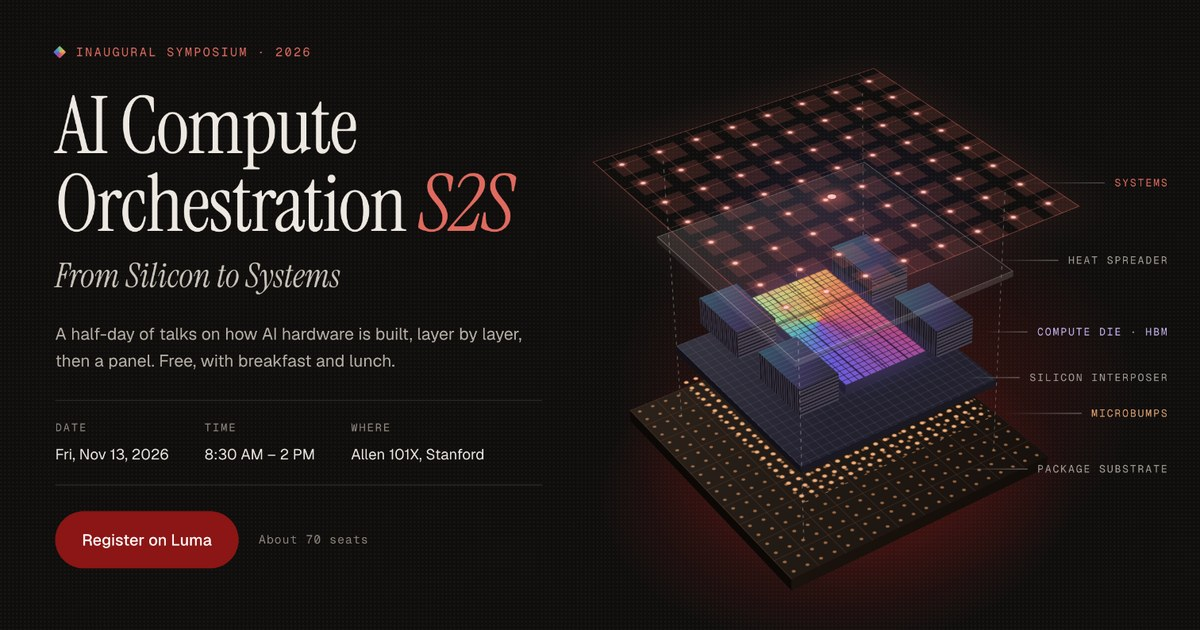
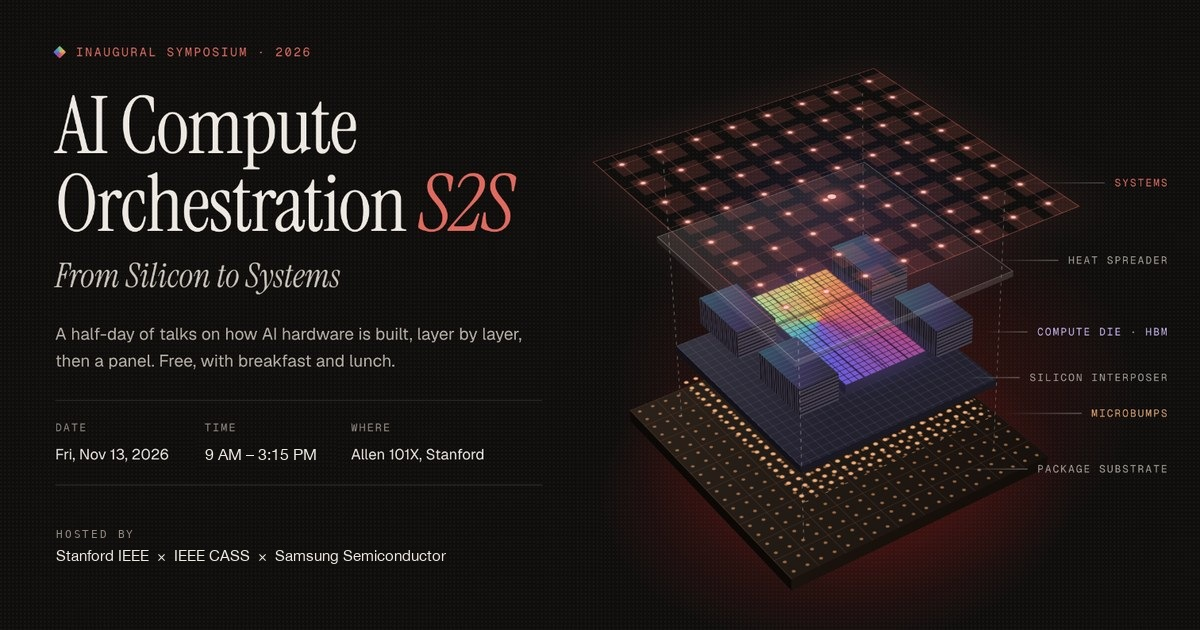
AI Compute: final day-of page
Registration closed, full panel with Joonhoi Hur, keynote title, CAS
mark, simpler hero and footer. Day-of logistics hide after the event.

Changed region(s): [[0.0308, 0.7841, 0.37, 0.9048], [0.185, 0.6937, 0.2775, 0.754]]

diff --git a/src/data/aiComputeData.js b/src/data/aiComputeData.js
@@ -9,7 +9,7 @@ const logo = (file) => img(`logos/${file}`)
 
 export const aiComputeMeta = {
   path: '/ai-compute',
-  title: 'AI Compute Orchestration S2S',
+  title: 'AI Compute Orchestration',
   subtitle: 'From Silicon to Systems',
   description: 'A day of talks on how AI hardware is built, from silicon to systems, then a panel. Free, with breakfast and lunch.',
   dateStr: 'Fri, Nov 13, 2026',
@@ -19,13 +19,14 @@ export const aiComputeMeta = {
   seatsShort: 'About 70 seats',
   lumaUrl: 'https://luma.com/kv8u97ga',
   contact: 'ieee@ee.stanford.edu',
-  parking: 'Via Ortega Garage',
   deadlineStr: 'Nov 6',
+  // Registration closed after the Nov 6 deadline. Set to true to bring the Register buttons back.
+  registrationOpen: false,
 }
 
 export const aiComputeLogos = {
   stanfordIeee: img('stanford-ieee.png'),
-  cass: img('ieee-cass.png'),
+  cass: img('cas-mark.png'),
   samsung: img('samsung.svg'),
 }
 
@@ -96,6 +97,13 @@ const SPEAKERS = {
     photo: img('nasrullah-2.jpg'),
     bio: 'CEO of Palo Alto Electron. Co-leads the Open Compute Project’s Open Chiplet Economy effort; co-founded zGlue. PhD, Stanford.',
   },
+  hur: {
+    name: 'Joonhoi Hur',
+    org: 'Samsung Semiconductor',
+    logo: logo('samsung.svg'),
+    photo: img('hur.jpg'),
+    bio: 'Corporate Vice President at Samsung Electronics. Previously an RF systems architect at Apple and a senior staff engineer at Qualcomm working on 5G NR RF front ends. PhD, Georgia Tech.',
+  },
 }
 
 // kind: 'talk' (default) | 'quiet' (welcome, breaks, meals) | 'tba' (title to come)
@@ -107,7 +115,7 @@ export const aiComputeProgram = [
   { time: '9:45', title: 'From KV Cache Offloading to Agent Workflow: How AI Memory Movement Works in System Software', speakers: [SPEAKERS.seo] },
   { time: '10:15', title: 'Domain Specific Accelerator Architectures for Servicing LLMs', speakers: [SPEAKERS.gunnam] },
   { time: '10:45', title: 'Break', kind: 'quiet' },
-  { time: '11:15', title: 'Keynote', note: 'Title to come.', tag: 'Keynote', speakers: [SPEAKERS.jouppi] },
+  { time: '11:15', title: 'Architectures for the AI Era', tag: 'Keynote', speakers: [SPEAKERS.jouppi] },
   { time: '12:00', title: 'From Silicon to Intelligence: Hardware, Algorithms and AI Co-Evolving at Scale', speakers: [SPEAKERS.park] },
   { time: '12:30', title: 'Lunch', kind: 'quiet' },
   { time: '1:30', title: 'Multi-physical Challenges and Trends of 2.5D/3D Advanced Packaging for High-Current AI Processor Stacks', speakers: [SPEAKERS.kim] },
@@ -115,15 +123,12 @@ export const aiComputeProgram = [
     time: '2:00',
     title: 'Orchestrating the stack',
     tag: 'Panel',
-    who: 'Tom Lee and other panelists · moderated by Jawad Nasrullah',
-    note: 'With audience Q&A.',
-    speakers: [SPEAKERS.lee, SPEAKERS.nasrullah],
-    panel: [SPEAKERS.lee, SPEAKERS.nasrullah],
-    logos: [
-      { src: logo('stanford.svg'), org: 'Stanford' },
-      { src: logo('pae.png'), org: 'Palo Alto Electron' },
-      { src: logo('samsung.svg'), org: 'Samsung Semiconductor' },
-    ],
+    who: 'Tom Lee, Joonhoi Hur, Dongjoo Seo, Vincent Kim, Youngsuk Park and Kiran Gunnam · moderated by Jawad Nasrullah',
+    note: 'With audience Q&A. Dongjoo Seo, Vincent Kim, Youngsuk Park and Kiran Gunnam also gave talks today; their bios are with their talks above.',
+    // Bios shown when expanded: panelists who don't give a talk, plus the moderator.
+    speakers: [SPEAKERS.lee, SPEAKERS.hur, SPEAKERS.nasrullah],
+    // Face row: every panelist, moderator last.
+    panel: [SPEAKERS.lee, SPEAKERS.hur, SPEAKERS.seo, SPEAKERS.kim, SPEAKERS.park, SPEAKERS.gunnam, SPEAKERS.nasrullah],
   },
   { time: '3:00', title: 'Closing Remarks', who: 'Nathan Chang and Elkim Roa Fuentes, Samsung Semiconductor', kind: 'quiet' },
 ]
@@ -134,21 +139,21 @@ export const aiComputeCommittee = [
   { name: 'Nathan (Naehyuck) Chang', role: 'SVP, Samsung DSRA · IEEE Fellow, ACM Fellow' },
   { name: 'Elkim Roa Fuentes', role: 'SoC Architect, Samsung Semiconductor · IEEE CASS' },
   { name: 'Jawad Nasrullah', role: 'CEO, Palo Alto Electron' },
-  { name: 'Rajiv Joshi', role: 'Research Staff Member, IBM T. J. Watson Research Center' },
+  { name: 'Rajiv Joshi', role: 'Research Staff Member, IBM T. J. Watson Research Center · IEEE CASS' },
 ]
 
 // Practical details, shown as dropdowns at the foot of the page.
 export const aiComputeInfo = [
   {
-    title: 'Registration deadline',
+    title: 'Registration closed',
     body: [
-      `Register on Luma by ${aiComputeMeta.deadlineStr}. Seats are limited, so we review every registration and will email you by ${aiComputeMeta.deadlineStr} to confirm whether you have a seat.`,
+      `Registration closed on ${aiComputeMeta.deadlineStr}. If you registered, check your email for your seat confirmation.`,
     ],
   },
   {
     title: 'Coffee and breakfast',
     body: [
-      'Check in at the door and you get a $15 voucher for Bytes Café, inside the Packard building next door to Allen. Spend it on coffee or breakfast whenever you like.',
+      'Check in at the door and you get a $10 voucher for Bytes Café, inside the Packard building next door to Allen. Spend it on coffee or breakfast by 9:30 AM.',
       'Lunch is catered on site.',
     ],
   },

diff --git a/src/styles/index.css b/src/styles/index.css
@@ -1498,6 +1498,10 @@ details[open] .year-body {
 .s2s-cta:hover { background: #A51C1C; }
 .s2s-cta:active { transform: scale(0.98); }
 .s2s-cta--lg { padding: 15px 26px; font-size: 16px; }
+/* Registration closed: same pill shape, muted outline, not clickable */
+.s2s-cta.s2s-cta--closed { background: transparent; border-color: rgba(237, 232, 225, 0.28); color: var(--s2s-muted) !important; cursor: default; }
+.s2s-cta.s2s-cta--closed:hover { background: transparent; }
+.s2s-cta.s2s-cta--closed:active { transform: none; }
 
 /* Top bar */
 .s2s-bar {
@@ -1514,7 +1518,7 @@ details[open] .year-body {
 .s2s-lockup-ieee { display: flex; align-items: center; gap: 10px; font-size: 15px; font-weight: 500; white-space: nowrap; }
 .s2s-lockup-ieee img { width: 34px; height: 34px; display: block; }
 .s2s-x { font-family: var(--s2s-mono); font-size: 13px; color: #6F6962; }
-.s2s-lockup-cass { height: 30px; width: auto; display: block; }
+.s2s-lockup-cass { height: 34px; width: auto; display: block; }
 .s2s-lockup-samsung { display: flex; align-items: baseline; gap: 7px; }
 .s2s-lockup-samsung img { height: 13px; width: auto; display: block; }
 
@@ -1535,8 +1539,6 @@ details[open] .year-body {
 .s2s-title { margin: 0; font-family: var(--s2s-serif); font-weight: 400; font-size: clamp(44px, 6vw, 80px); line-height: 0.98; letter-spacing: -0.018em; text-wrap: balance; }
 .s2s-title em { color: var(--s2s-coral); }
 .s2s-subtitle { display: block; margin-top: 0.3em; font-style: italic; font-size: max(0.42em, 21px); line-height: 1.1; letter-spacing: 0; color: #C9C2B8; }
-.s2s-keynote { margin: 0; display: flex; align-items: baseline; gap: 12px; flex-wrap: wrap; font-family: var(--s2s-serif); font-size: 24px; line-height: 1.2; }
-.s2s-keynote .s2s-mono-label { color: #C9B6F2; }
 .s2s-when { margin: 0; display: flex; flex-wrap: wrap; font-family: var(--s2s-mono); font-size: 13px; letter-spacing: 0.08em; text-transform: uppercase; color: var(--s2s-ink); }
 
 /* Exploded package art */
@@ -1679,16 +1681,13 @@ details[open] .year-body {
 /* Footer: last call, logistics, hosts */
 .s2s-foot { position: relative; overflow: hidden; background: #0F0E0D; }
 .s2s-foot-inner { position: relative; display: flex; flex-direction: column; gap: 44px; padding-top: clamp(56px, 8vw, 96px); padding-bottom: 48px; }
-.s2s-foot-facts { margin: 0; display: grid; grid-template-columns: repeat(auto-fit, minmax(min(200px, 100%), 1fr)); gap: 18px 28px; padding: 22px 0; border-bottom: 1px solid var(--s2s-line); }
-.s2s-foot-facts div { display: flex; flex-direction: column; gap: 6px; }
-.s2s-foot-facts dt { font-family: var(--s2s-mono); font-size: 11px; letter-spacing: 0.14em; text-transform: uppercase; color: var(--s2s-faint); }
-.s2s-foot-facts dd { margin: 0; font-size: 15px; overflow-wrap: anywhere; }
 .s2s-foot-hosts { display: flex; flex-wrap: wrap; gap: 28px 64px; }
 .s2s-foot-hosts > div { display: flex; flex-direction: column; gap: 12px; }
 .s2s-host { display: flex; align-items: center; gap: 12px; font-family: var(--s2s-serif); font-size: 22px; line-height: 1.05; }
 .s2s-host small { display: block; margin-top: 3px; font-family: var(--font); font-size: 12px; color: var(--s2s-muted); }
 .s2s-host-ieee { width: 44px; height: 44px; display: block; }
 .s2s-host-cass { height: 44px; width: auto; display: block; }
+.s2s-host.s2s-host-mail { min-height: 44px; font-family: var(--font); font-size: 15px; overflow-wrap: anywhere; }
 
 /* Tablet and phone: art drops under the copy and scales to the screen */
 @media (max-width: 900px) {
@@ -1701,9 +1700,8 @@ details[open] .year-body {
 @media (max-width: 640px) {
   .s2s { --s2s-bar: 56px; }
   .s2s-lockup { gap: 9px; }
-  .s2s-lockup-ieee span { display: none; }
   .s2s-lockup-ieee img { width: 30px; height: 30px; }
-  .s2s-lockup-cass { height: 26px; }
+  .s2s-lockup-cass { height: 30px; }
   .s2s-hero-inner { padding-top: 28px; }
   .s2s-hero-copy { gap: 22px; }
   .s2s-when { font-size: 12px; }
@@ -1724,10 +1722,9 @@ details[open] .year-body {
   .s2s-committee-list li { padding: 12px 0; }
   .s2s-committee-name { font-size: 18px; }
   .s2s-committee-role { font-size: 12px; }
-  .s2s-foot-facts { grid-template-columns: minmax(0, 1fr) minmax(0, 1fr); }
-  .s2s-foot-facts div:last-child { grid-column: 1 / -1; }
   .s2s-bio p { font-size: 14px; }
   .s2s-cta--lg { padding: 14px 22px; font-size: 15px; }
+  .s2s-bar .s2s-cta { padding: 8px 12px; font-size: 13px; }
 }
 @media (max-width: 360px) {
   .s2s-x { display: none; }

diff --git a/src/pages/AICompute.jsx b/src/pages/AICompute.jsx
@@ -9,7 +9,9 @@ import {
 
 // Stands alone (App hides the site nav here). Styles are the "AI Compute (S2S)" block in index.css.
 
-const keynote = aiComputeProgram.find((p) => p.tag === 'Keynote')?.speakers?.[0]
+// After the day ends the page stays up as a record: the registration pill and the
+// "Before you come" logistics drop away on their own.
+const EVENT_ENDS = new Date('2026-11-13T15:15:00-08:00')
 
 function rowClass({ tag, kind, speakers }) {
   return [
@@ -100,7 +102,6 @@ function Lockup({ className = '' }) {
     <span className={`s2s-lockup ${className}`} aria-label="Stanford IEEE × IEEE CASS × Samsung Semiconductor">
       <span className="s2s-lockup-ieee">
         <img src={logos.stanfordIeee} alt="" />
-        <span>Stanford IEEE</span>
       </span>
       <span className="s2s-x" aria-hidden="true">×</span>
       <img src={logos.cass} alt="" className="s2s-lockup-cass" />
@@ -113,12 +114,17 @@ function Lockup({ className = '' }) {
 }
 
 export default function AICompute() {
+  const isOver = Date.now() > EVENT_ENDS.getTime()
   return (
     <div className="s2s">
       <header className="s2s-bar">
         <div className="s2s-wrap s2s-bar-inner">
           <Lockup />
-          <a className="s2s-cta" href={meta.lumaUrl} target="_blank" rel="noreferrer">Register by {meta.deadlineStr}</a>
+          {meta.registrationOpen ? (
+            <a className="s2s-cta" href={meta.lumaUrl} target="_blank" rel="noreferrer">Register by {meta.deadlineStr}</a>
+          ) : !isOver && (
+            <span className="s2s-cta s2s-cta--closed">Registration closed</span>
+          )}
         </div>
       </header>
 
@@ -127,16 +133,11 @@ export default function AICompute() {
         <div className="s2s-wrap s2s-hero-inner">
           <div className="s2s-hero-copy">
             <h1 id="s2s-title" className="s2s-title s2s-reveal" style={{ animationDelay: '.08s' }}>
-              AI Compute Orchestration <em>S2S</em>
-              <span className="s2s-subtitle">{meta.subtitle}</span>
+              AI Compute Orchestration
+              <span className="s2s-subtitle">From <em>Silicon</em> to <em>Systems</em></span>
             </h1>
-            {keynote && (
-              <p className="s2s-keynote s2s-reveal" style={{ animationDelay: '.12s' }}>
-                <span className="s2s-mono-label">Keynote</span> {keynote.name}, {keynote.org}
-              </p>
-            )}
             <p className="s2s-when s2s-reveal" style={{ animationDelay: '.16s' }}>
-              {meta.dateStr}
+              {meta.dateStr} · {meta.where}
             </p>
           </div>
           <PackageArt />
@@ -175,7 +176,7 @@ export default function AICompute() {
       <footer className="s2s-foot" aria-labelledby="s2s-info-h">
         <div className="s2s-grain" aria-hidden="true" />
         <div className="s2s-wrap s2s-foot-inner">
-          <div>
+          {!isOver && <div>
             <div className="s2s-section-head">
               <h2 id="s2s-info-h" className="s2s-h2">Before you <em>come</em></h2>
             </div>
@@ -194,12 +195,7 @@ export default function AICompute() {
                 </li>
               ))}
             </ul>
-          </div>
-          <dl className="s2s-foot-facts">
-            <div><dt>Where</dt><dd>{meta.where}</dd></div>
-            <div><dt>Parking</dt><dd>{meta.parking}</dd></div>
-            <div><dt>Contact</dt><dd><a href={`mailto:${meta.contact}`}>{meta.contact}</a></dd></div>
-          </dl>
+          </div>}
           <div className="s2s-foot-hosts">
             <div>
               <span className="s2s-mono-label">Hosted by</span>
@@ -214,6 +210,10 @@ export default function AICompute() {
                 <img src={logos.cass} alt="" className="s2s-host-cass" />
                 <span>IEEE CASS<small>Circuits and Systems Society</small></span>
               </span>
+            </div>
+            <div>
+              <span className="s2s-mono-label">Contact</span>
+              <a className="s2s-host s2s-host-mail" href={`mailto:${meta.contact}`}>{meta.contact}</a>
             </div>
           </div>
         </div>

diff --git a/src/pages/Home.jsx b/src/pages/Home.jsx
@@ -423,13 +423,17 @@ export default function Home() {
           <section ref={setPanel(3)} className="jr-panel" aria-label="AI Compute symposium">
             <p className="jr-eyebrow jr-eyebrow--violet">Nov 13 · Allen 101X</p>
             <h2 className="jr-serif">
-              AI Compute Orchestration <em>S2S</em>
+              AI Compute Orchestration
             </h2>
             <div className="jr-actions">
-              <a href={aiComputeMeta.lumaUrl} target="_blank" rel="noreferrer" className="jr-btn jr-btn--primary">
-                Register
-              </a>
-              <Link to={aiComputeMeta.path} className="jr-btn">Program</Link>
+              {aiComputeMeta.registrationOpen && (
+                <a href={aiComputeMeta.lumaUrl} target="_blank" rel="noreferrer" className="jr-btn jr-btn--primary">
+                  Register
+                </a>
+              )}
+              <Link to={aiComputeMeta.path} className={aiComputeMeta.registrationOpen ? 'jr-btn' : 'jr-btn jr-btn--primary'}>
+                Program
+              </Link>
             </div>
           </section>
 

diff --git a/src/pages/Events.jsx b/src/pages/Events.jsx
@@ -36,13 +36,15 @@ export default function Events() {
         <Link to={aiComputeMeta.path} className="conf-callout">
           <span className="conf-callout-kicker">Symposium · {aiComputeMeta.dateStr}</span>
           <span className="conf-callout-title">
-            AI Compute Orchestration <em>S2S</em>
+            AI Compute Orchestration
             <span className="conf-callout-sub">{aiComputeMeta.subtitle}</span>
           </span>
           <span className="conf-callout-desc">
             {aiComputeMeta.description} {aiComputeMeta.where}.
           </span>
-          <span className="conf-callout-cta">Program, speakers &amp; registration →</span>
+          <span className="conf-callout-cta">
+            {aiComputeMeta.registrationOpen ? 'Program, speakers & registration →' : 'Program & speakers →'}
+          </span>
         </Link>
 
         {/* Static site in public/urtc, so a full page load rather than a router link */}

diff --git a/scripts/prerender.js b/scripts/prerender.js
@@ -35,7 +35,7 @@ const template = fs.readFileSync(path.resolve(__dirname, '../dist/index.html'), 
 const SITE = 'https://web.stanford.edu/group/ieee'
 const PAGE_META = {
   '/ai-compute': {
-    title: 'AI Compute Orchestration S2S · Nov 13 at Stanford',
+    title: 'AI Compute Orchestration · Nov 13 at Stanford',
     description: 'A day of talks on how AI hardware is built, from silicon to systems. Keynote by Norm Jouppi (Google), with talks and a panel from Samsung, Stanford, Micron and AWS. Free, with breakfast and lunch.',
     image: 'og/ai-compute.jpg',
   },
